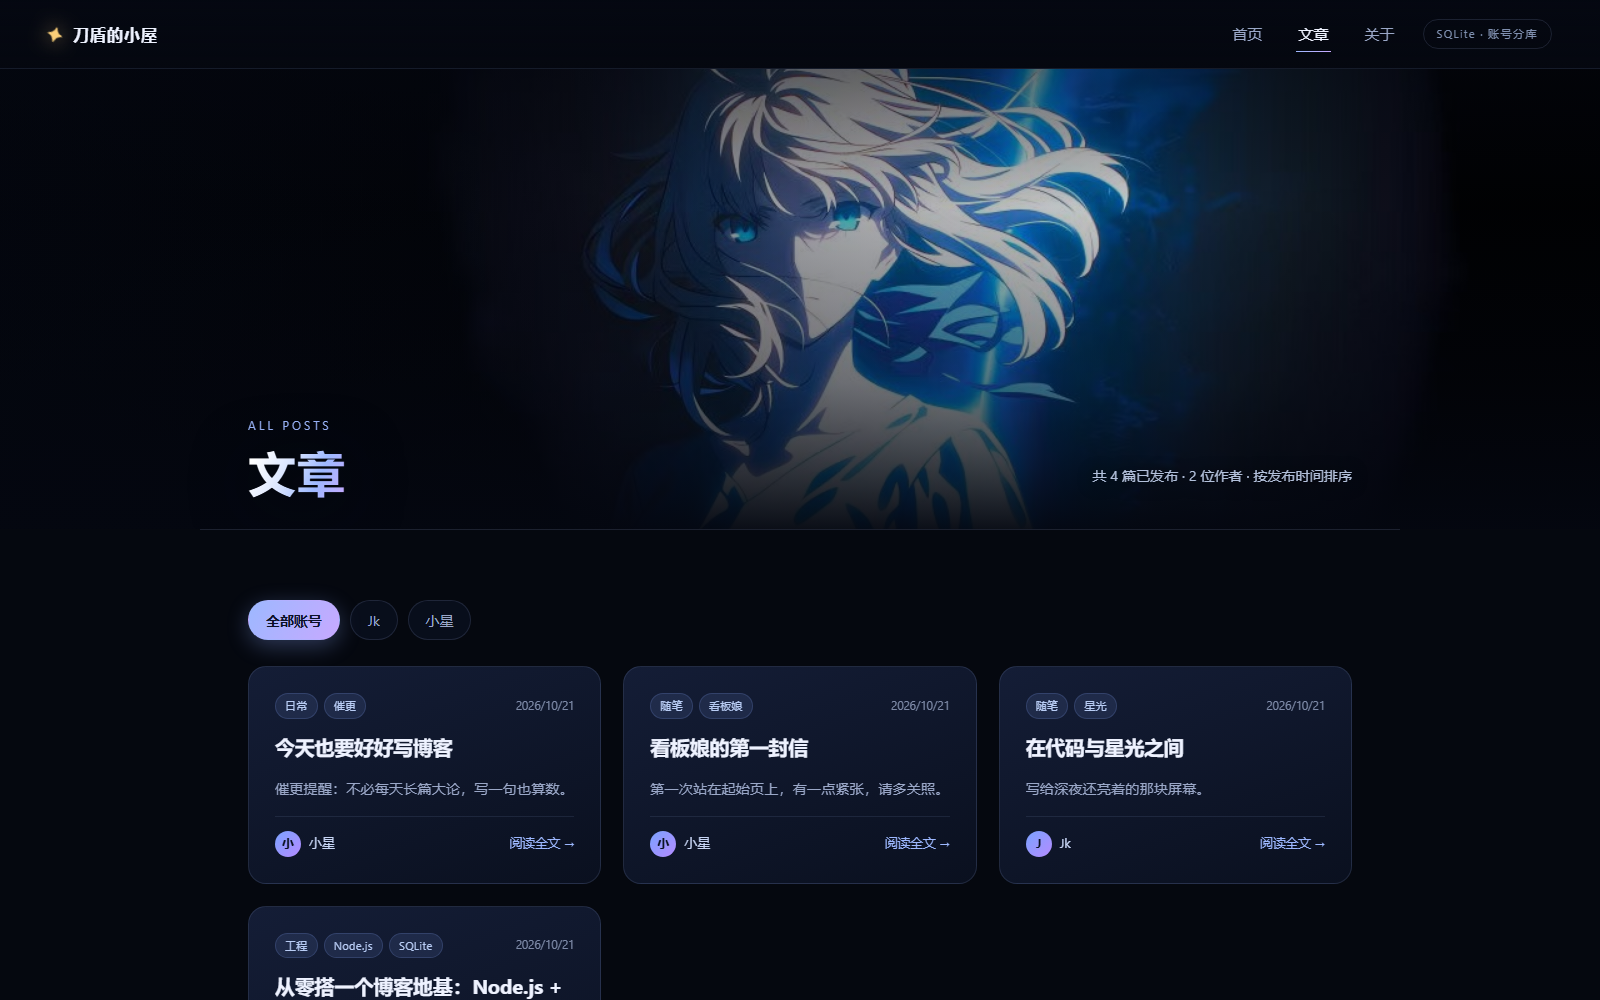
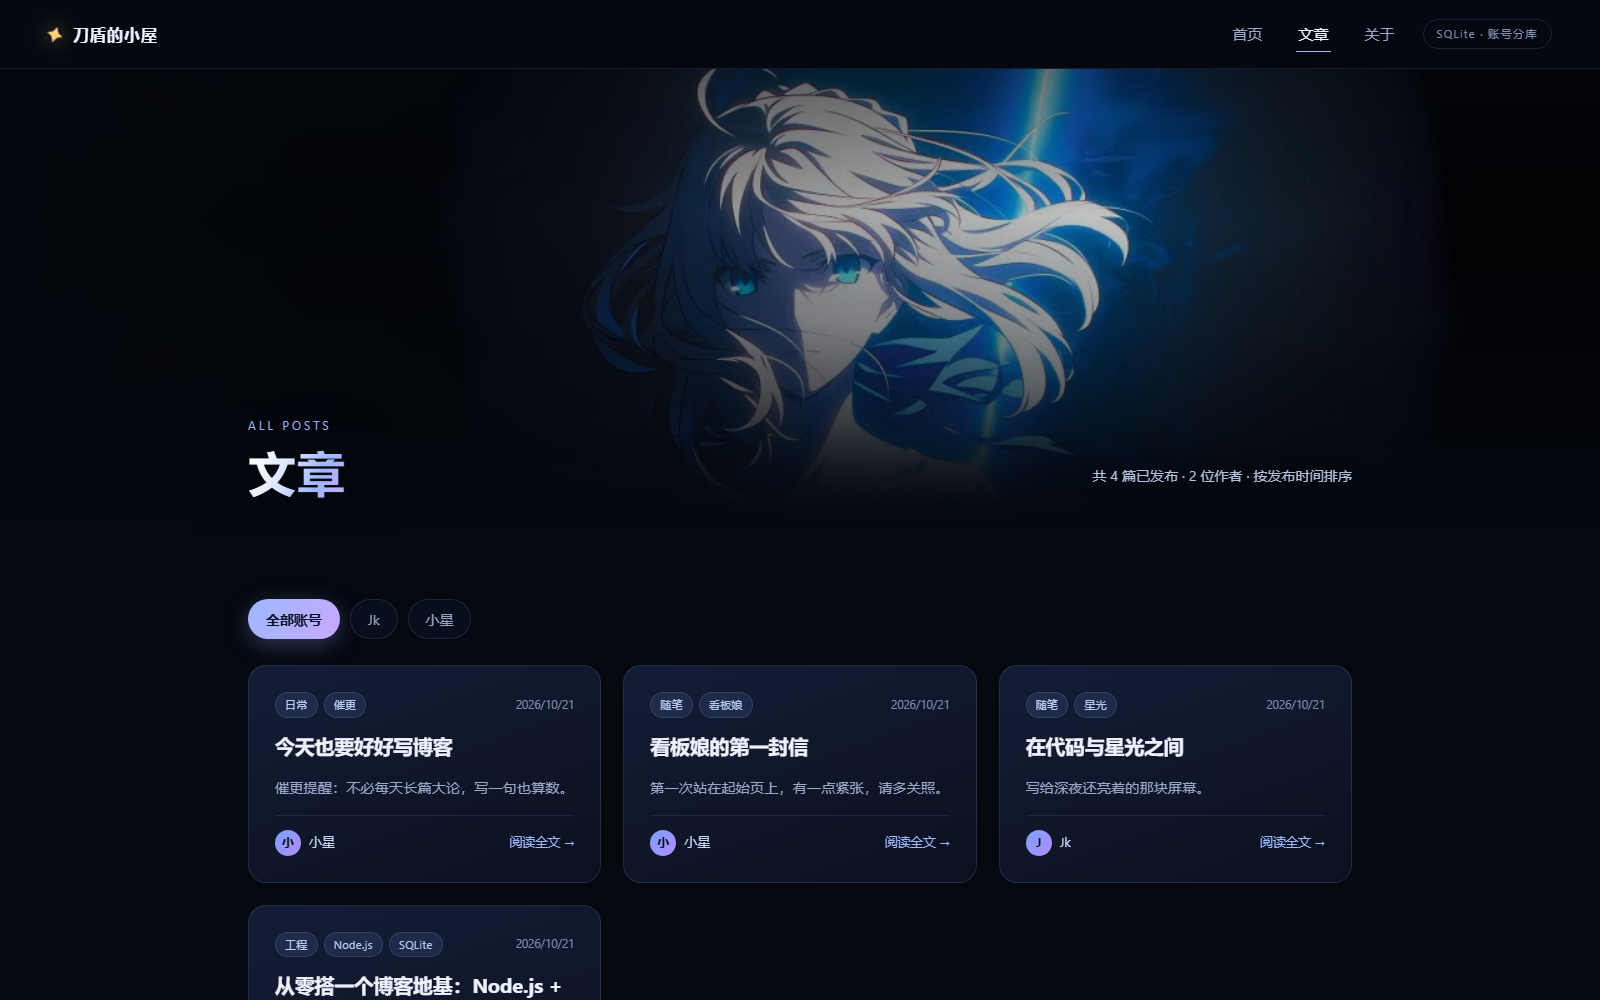
feat: 文章页图片与文章区加入渐入过渡
- 顶部横图打开时淡入 + 极轻缩放，标题延迟上浮，避免一进页面就硬邦邦地出现
- 图片底部改用遮罩渐隐，与下方文章区同色无缝衔接，去掉原来的硬分隔线
- 图下文章列表首次进入视口时淡入上浮（prefers-reduced-motion 下直接显示）
- 同步更新验收截图与 README / background-spec 说明

diff --git a/web/css/style.css b/web/css/style.css
@@ -1006,7 +1006,8 @@ img {
   isolation: isolate;
   overflow: hidden;
   height: clamp(300px, 46vh, 460px);
-  background: #04070e;
+  /* 和下方文章区同色：图片底部渐隐后直接融进文章区，不留硬边 */
+  background: #05080f;
 }
 
 .articles-hero-img {
@@ -1017,6 +1018,15 @@ img {
   height: 100%;
   object-fit: cover;
   object-position: center 10%;
+  -webkit-mask-image: linear-gradient(
+    180deg,
+    #000 0%,
+    #000 56%,
+    rgba(0, 0, 0, 0.72) 78%,
+    transparent 100%
+  );
+  mask-image: linear-gradient(180deg, #000 0%, #000 56%, rgba(0, 0, 0, 0.72) 78%, transparent 100%);
+  animation: articles-hero-in 1.2s cubic-bezier(0.22, 0.8, 0.24, 1) both;
 }
 
 .articles-hero::after {
@@ -1027,12 +1037,12 @@ img {
   background:
     linear-gradient(
       180deg,
-      rgba(4, 7, 16, 0.55) 0%,
-      rgba(4, 7, 16, 0.18) 30%,
-      rgba(4, 7, 16, 0.48) 68%,
-      rgba(4, 7, 16, 0.96) 100%
+      rgba(5, 8, 15, 0.55) 0%,
+      rgba(5, 8, 15, 0.2) 32%,
+      rgba(5, 8, 15, 0.55) 70%,
+      #05080f 100%
     ),
-    linear-gradient(90deg, rgba(4, 7, 16, 0.8) 0%, rgba(4, 7, 16, 0.24) 48%, rgba(4, 7, 16, 0) 74%);
+    linear-gradient(90deg, rgba(5, 8, 15, 0.8) 0%, rgba(5, 8, 15, 0.24) 48%, rgba(5, 8, 15, 0) 74%);
 }
 
 .articles-hero-inner {
@@ -1046,6 +1056,7 @@ img {
   width: min(1200px, 100%);
   margin: 0 auto;
   padding: 0 clamp(20px, 5vw, 48px) clamp(18px, 3vh, 30px);
+  animation: rise-in 0.9s cubic-bezier(0.22, 0.8, 0.24, 1) 0.16s both;
 }
 
 .articles-hero .page-title {
@@ -1062,7 +1073,6 @@ img {
 
 .articles-library {
   background: #05080f;
-  border-top: 1px solid rgba(148, 170, 220, 0.16);
 }
 
 .library-main--opaque {
@@ -1677,6 +1687,18 @@ img {
   50% {
     opacity: 1;
     transform: translateY(4px);
+  }
+}
+
+/* 文章页顶部横图：淡入 + 极轻的缩放，避免一打开就硬邦邦地出现 */
+@keyframes articles-hero-in {
+  from {
+    opacity: 0;
+    transform: scale(1.035);
+  }
+  to {
+    opacity: 1;
+    transform: scale(1);
   }
 }
 

diff --git a/web/js/articles.js b/web/js/articles.js
@@ -8,6 +8,9 @@ import { getAccountArticles, getAccounts, getFeed, getSite } from './api.js';
  */
 const PAGE_SIZE = 12;
 
+// 只有 JS 正常加载时才启用「渐入」动画，避免无 JS 时内容被隐藏。
+document.documentElement.classList.add('js-reveal');
+
 const state = {
   site: null,
   accounts: [],
@@ -66,6 +69,32 @@ function toast(message) {
 
 function accountLabel(account) {
   return account?.nickname || account?.username || '';
+}
+
+/** 图下文章区第一次进入视口时渐入，避免从横图直接切到列表太突兀。 */
+function initReveal() {
+  const items = $$('[data-reveal]');
+  if (items.length === 0) return;
+
+  if (
+    window.matchMedia('(prefers-reduced-motion: reduce)').matches ||
+    typeof IntersectionObserver === 'undefined'
+  ) {
+    for (const item of items) item.classList.add('is-revealed');
+    return;
+  }
+
+  const observer = new IntersectionObserver(
+    (entries) => {
+      for (const entry of entries) {
+        if (!entry.isIntersecting) continue;
+        entry.target.classList.add('is-revealed');
+        observer.unobserve(entry.target);
+      }
+    },
+    { threshold: 0.08, rootMargin: '0px 0px -4% 0px' },
+  );
+  for (const item of items) observer.observe(item);
 }
 
 /* ------------------------------------------------------------------ */
@@ -293,6 +322,7 @@ function readAccountFromUrl() {
 
 async function boot() {
   wireEvents();
+  initReveal();
 
   const [siteResult, accountsResult] = await Promise.allSettled([getSite(), getAccounts()]);
 

diff --git a/web/articles.html b/web/articles.html
@@ -51,7 +51,7 @@
       </section>
 
       <section class="articles-library" aria-label="文章列表">
-        <div class="library-main library-main--opaque">
+        <div class="library-main library-main--opaque" data-reveal>
           <div class="filter-bar" id="filter-bar" role="group" aria-label="按账号筛选文章">
             <button class="filter-chip is-active" type="button" data-account="">全部账号</button>
           </div>

diff --git a/README.md b/README.md
@@ -179,7 +179,7 @@ app.close();
 - **关于页**：独立页面 `/about`，标题 / 正文 / 技术标签都存在主库 `site_settings` 里，由 `/js/about.js` 从 `/api/site` 读取渲染；首页不再显示关于区块。
 - **顶部导航**：首页 / 文章 / 关于；「文章」进入第二页 `/articles`。
 - **首页最新文章**：跨账号 Feed；顶部胶囊可按账号筛选，对应「分库」结构；右上角「查看全部文章」进入第二页。
-- **第二页（文章列表）**：`/articles`，专门放文章——顶部是文章页自己的横图（`web/assets/articles-hero.jpg`，不再铺首页背景），图下方是整块不透明的文章列表；跨账号分页 + 账号筛选胶囊 + 「加载更多」；筛选条件会写进 `?account=<账号>`，方便分享；每张卡片整张可点，跳到独立文章页。
+- **第二页（文章列表）**：`/articles`，专门放文章——顶部是文章页自己的横图（`web/assets/articles-hero.jpg`，不再铺首页背景），图片底部渐隐进下方整块不透明的文章列表，图片与列表都有淡入过渡；跨账号分页 + 账号筛选胶囊 + 「加载更多」；筛选条件会写进 `?account=<账号>`，方便分享；每张卡片整张可点，跳到独立文章页。
 - **文章独立页面**：`/articles/<账号>/<id>`（`id` 是账号库内 ID，所以要带账号名），直接渲染 Markdown 正文、作者、日期、阅读数和标签；文章不存在 / 未发布时显示错误态和返回入口。
 - **阅读弹窗**：首页卡片仍然打开弹窗快速预览（内置安全的极简 Markdown 渲染器：先整体转义，再渲染）；弹窗底部有「在独立页面打开」可跳到文章页。
 - **文章深链**：`/?post=xiaoxing:1` 在首页直接打开阅读弹窗；`/articles/xiaoxing/1` 则是可分享的独立文章页面。

diff --git a/docs/background-spec.md b/docs/background-spec.md
@@ -82,7 +82,7 @@
 
 ## 文章页顶部横图（articles-hero.jpg）
 
-第二页 `/articles` 顶部用一张独立的横图，**不复用首页背景**：图片铺满顶部横幅，标题和数据叠在底部深色渐变上，图片下方是整块不透明的文章列表。
+第二页 `/articles` 顶部用一张独立的横图，**不复用首页背景**：图片铺满顶部横幅，标题和数据叠在底部深色渐变上，图片底部渐隐融入下方整块不透明的文章列表（打开页面时图片和列表都有淡入过渡，系统开启「减少动态效果」时关闭）。
 
 | 文件 | 实际尺寸 | 说明 |
 | --- | --- | --- |
